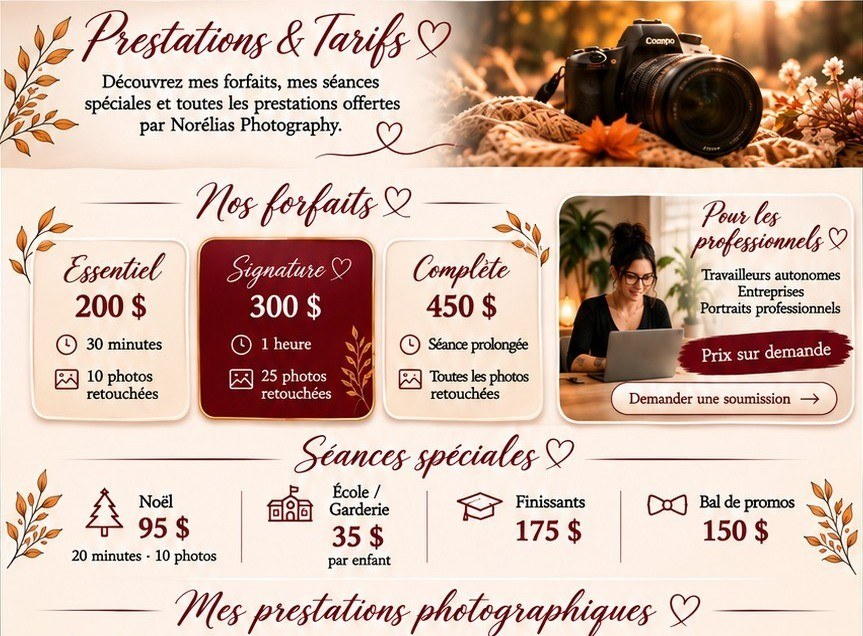
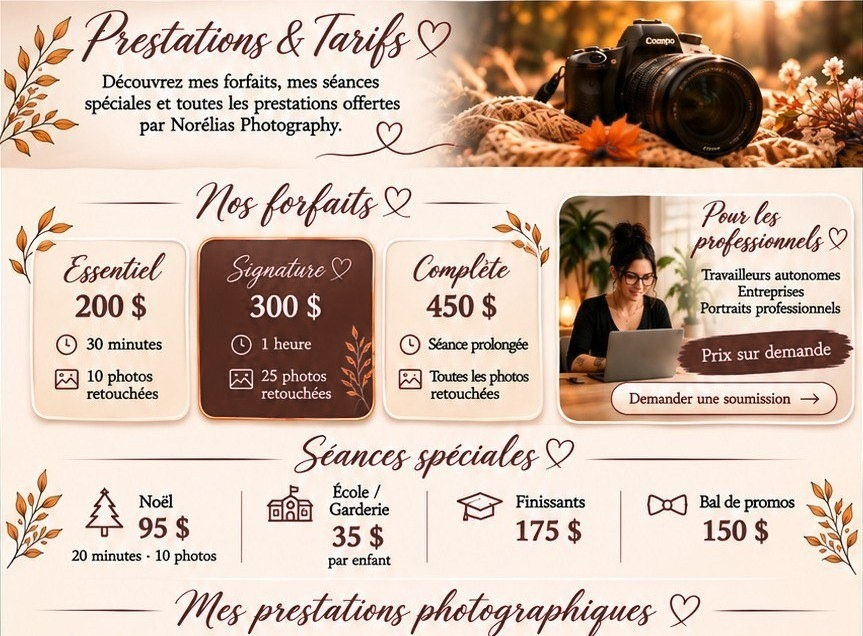
Cellulaire : image Prestations repeinte, carte Signature, boutons cartes-cadeaux en brun (non publié)
Claude-Session: https://claude.ai/code/session_01Rh5XKVHsHEJX8tgAbBS3Nk

diff --git a/prestations/index.html b/prestations/index.html
@@ -18,11 +18,15 @@
 <meta property="og:site_name" content="Norélias Photography">
 <meta name="theme-color" content="#4e3128">
 <link rel="icon" href="../favicon.svg" type="image/svg+xml">
-<link rel="stylesheet" href="../prestations-reproduction.css?v=20261124v">
+<link rel="stylesheet" href="../prestations-reproduction.css?v=20261124z2">
 <script>(function(){function z(){document.documentElement.style.setProperty('--z',(innerWidth<=760?1:Math.max(1,Math.min(1.25,innerWidth*0.62/1024))))}z();addEventListener('resize',z)})()</script>
 <link rel="stylesheet" href="../entete.css?v=20261124v">
 <style>
 .mob-img{container-type:inline-size}
+.mob-sig{position:absolute;left:22.8%;top:37%;width:20.8%;height:29.4%;border-radius:8% / 6%;background:linear-gradient(160deg,#f3d9c6,#e6bfa6);border:.45cqw solid #b98a5e;box-sizing:border-box;box-shadow:0 .5cqw 1.6cqw rgba(78,49,40,.22);color:#4e3128;text-align:center;font-family:'Times New Roman',Times,serif;pointer-events:none;display:flex;flex-direction:column;align-items:center;justify-content:center}
+.mob-sig .ms-t{font-family:Allura,'Brush Script MT',cursive;font-size:4.3cqw;line-height:1}.mob-sig .ms-t i{font-style:normal;font-family:Arial,sans-serif;font-size:2.6cqw;color:#a8685e}
+.mob-sig .ms-p{font-size:4.9cqw;font-weight:bold;margin:.8cqw 0 1.6cqw;line-height:1}
+.mob-sig .ms-l{display:flex;align-items:center;gap:1cqw;font-size:2.1cqw;line-height:1.15;font-weight:600;margin-top:1.2cqw;text-align:left}.mob-sig .ms-l svg{width:3cqw;height:3cqw;flex:none}
 .mob-ecole{position:absolute;left:37.4%;top:81.72%;width:8.6%;height:8.24%;background:#f7ede4;text-align:center;font-family:'Times New Roman',Times,serif;pointer-events:none;display:flex;flex-direction:column;justify-content:center;align-items:center}
 .mob-ecole b{font-size:2.9cqw;line-height:1;color:#4e3128;font-weight:bold}
 .mob-ecole span{font-size:1.75cqw;line-height:1.2;margin-top:.5cqw;color:#4e3128}
@@ -49,7 +53,8 @@
   <a class="panier-lien" href="../panier/" aria-label="Mon panier"><svg viewBox="0 0 24 24" fill="none" stroke="currentColor" stroke-width="1.7" stroke-linecap="round" stroke-linejoin="round"><path d="M3 4h2l2.4 11h10.2L20 8H6.5"/><circle cx="9" cy="19" r="1.4"/><circle cx="17" cy="19" r="1.4"/></svg><span class="panier-n" hidden>0</span></a>
  </header>
  
- <div class="mob-img"><img src="../images/prestations-cellulaire-haut.jpg?v=1" alt="Prestations et tarifs Norélias Photography : forfaits Essentiel 200 $, Signature 300 $, Complète 450 $, séances spéciales Noël 95 $, école et garderie 35 $ par enfant, finissants 175 $, bal de promos 150 $, grossesse, accouchement, nouveau-né, famille, couple, fêtes, portraits professionnels">
+ <div class="mob-img"><img src="../images/prestations-cellulaire-haut.jpg?v=2" alt="Prestations et tarifs Norélias Photography : forfaits Essentiel 200 $, Signature 300 $, Complète 450 $, séances spéciales Noël 95 $, école et garderie 35 $ par enfant, finissants 175 $, bal de promos 150 $, grossesse, accouchement, nouveau-né, famille, couple, fêtes, portraits professionnels">
+  <div class="mob-sig"><span class="ms-t">Signature <i>&#9825;</i></span><span class="ms-p">300 $</span><span class="ms-l"><svg viewBox="0 0 32 32" fill="none" stroke="currentColor" stroke-width="2.2" stroke-linecap="round"><circle cx="16" cy="16" r="12"/><path d="M16 9v7l5 3"/></svg>1 heure</span><span class="ms-l"><svg viewBox="0 0 32 32" fill="none" stroke="currentColor" stroke-width="2.2" stroke-linecap="round" stroke-linejoin="round"><rect x="4" y="5" width="24" height="22" rx="3"/><circle cx="12" cy="13" r="2.5"/><path d="M5 25l8-8 5 5 4-4 6 6"/></svg>25 photos<br>retouchées</span></div>
   <div class="mob-ecole"><b>300 $</b><span>par séance</span></div>
   <div class="mob-pro" aria-hidden="false"><div class="mp-ph" role="img" aria-label="Sabrina à son bureau"></div><div class="mp-t"><span class="mp-ti">Pour les professionnels <i>&#9825;</i></span><span class="mp-l">Travailleurs autonomes<br>Entreprises<br>Portraits professionnels</span><span class="mp-prix">Prix sur demande</span></div><span class="mp-bt">Demander une soumission <b>&rarr;</b></span></div>
   <a class="mob-h" href="mailto:bonjour@norelias.ca?subject=Demande%20de%20soumission" aria-label="Demander une soumission" style="left:70.22%;top:59.91%;width:27.11%;height:5.83%"></a>

diff --git a/legacy.css b/legacy.css
@@ -27,11 +27,11 @@
 .legacy .opage-largeur{max-width:calc(728 * var(--u));margin:0 auto}
 .legacy main{background:var(--creme)}
 .legacy .entete{box-shadow:0 2px 14px rgba(58,42,36,.08)}
-.legacy .bouton{display:inline-flex;align-items:center;justify-content:center;gap:calc(12 * var(--u));background:linear-gradient(180deg,#e1b2a4 0%,#cb9483 100%);color:#4e3128;font-family:'Nunito',sans-serif;font-weight:600;font-size:calc(14.5 * var(--u));text-decoration:none;padding:0 calc(22 * var(--u));height:calc(32 * var(--u));border-radius:calc(5 * var(--u));border:0;box-shadow:0 calc(2 * var(--u)) calc(6 * var(--u)) rgba(150,90,75,.3);cursor:pointer;transition:filter .2s}
+.legacy .bouton{display:inline-flex;align-items:center;justify-content:center;gap:calc(12 * var(--u));background:#4e3128;color:#f7ede4;font-family:'Nunito',sans-serif;font-weight:600;font-size:calc(14.5 * var(--u));text-decoration:none;padding:0 calc(22 * var(--u));height:calc(32 * var(--u));border-radius:calc(5 * var(--u));border:0;box-shadow:0 calc(2 * var(--u)) calc(6 * var(--u)) rgba(150,90,75,.3);cursor:pointer;transition:filter .2s}
 .legacy .bouton:hover{filter:brightness(1.06)}
 .legacy .bouton .fleche{font-size:1.25em;line-height:1;margin-top:calc(-2 * var(--u))}
 .legacy .bouton.blanc{background:#fff;color:var(--noel);border-radius:999px;box-shadow:none;height:calc(37 * var(--u));padding:0 calc(16 * var(--u));font-size:calc(12.5 * var(--u));font-weight:600}
-.legacy .bouton.contour{background:transparent;border:1.5px solid #cb9483;box-shadow:none}
+.legacy .bouton.contour{background:transparent;border:1.5px solid #4e3128;box-shadow:none}
 .legacy .bouton[disabled]{opacity:.45;cursor:not-allowed}
 .legacy .entete{position:sticky;top:0;z-index:50;background:#f7ede4}
 .legacy .entete .barre{max-width:calc(728 * var(--u));margin:0 auto;height:calc(80 * var(--u));display:flex;align-items:center;padding:0 calc(20 * var(--u));gap:calc(10 * var(--u))}
@@ -424,7 +424,7 @@
 .legacy .etapes li .num{font-size:13px}}
 .legacy .barre-reserver{display:none}
 @media (max-width:1024px){.legacy body.avec-barre{padding-bottom:64px}
-.legacy .barre-reserver{display:flex;align-items:center;justify-content:center;position:fixed;left:0;right:0;bottom:0;z-index:40;height:56px;background:linear-gradient(180deg,#e1b2a4 0%,#cb9483 100%);color:#4e3128;font-family:'Nunito',sans-serif;font-weight:700;font-size:16px;text-decoration:none;box-shadow:0 -3px 12px rgba(58,42,36,.28);padding-bottom:env(safe-area-inset-bottom)}}
+.legacy .barre-reserver{display:flex;align-items:center;justify-content:center;position:fixed;left:0;right:0;bottom:0;z-index:40;height:56px;background:#4e3128;color:#f7ede4;font-family:'Nunito',sans-serif;font-weight:700;font-size:16px;text-decoration:none;box-shadow:0 -3px 12px rgba(58,42,36,.28);padding-bottom:env(safe-area-inset-bottom)}}
 .legacy .temoignages{background:#f7ede4;padding:calc(30 * var(--u)) 0 calc(34 * var(--u))}
 .legacy .temoignages .interieur{max-width:calc(728 * var(--u));margin:0 auto;padding:0 calc(20 * var(--u))}
 .legacy .carrousel{position:relative;margin-top:calc(18 * var(--u));padding:0 calc(22 * var(--u))}
@@ -477,7 +477,7 @@
 .legacy .mt-cadeau:hover{transform:translateY(-3px);box-shadow:0 calc(6 * var(--u)) calc(14 * var(--u)) rgba(150,90,75,.22)}
 .legacy .mt-cadeau .prix{font-family:'Great Vibes',cursive;font-size:calc(44 * var(--u));line-height:1;color:#4e3128}
 .legacy .mt-cadeau .desc{font-size:calc(13 * var(--u));color:#4e3128}
-.legacy .mt-cadeau .choisir{margin-top:calc(8 * var(--u));display:inline-block;background:linear-gradient(180deg,#e1b2a4 0%,#cb9483 100%);color:#4e3128;font-weight:700;font-size:calc(12.5 * var(--u));padding:calc(7 * var(--u)) calc(14 * var(--u));border-radius:calc(5 * var(--u))}
+.legacy .mt-cadeau .choisir{margin-top:calc(8 * var(--u));display:inline-block;background:#4e3128;color:#f7ede4;font-weight:700;font-size:calc(12.5 * var(--u));padding:calc(7 * var(--u)) calc(14 * var(--u));border-radius:calc(5 * var(--u))}
 .legacy .autre-montant{text-align:center;margin-top:calc(16 * var(--u));font-size:calc(13.5 * var(--u));color:#4e3128}
 .legacy .autre-montant a{color:#4e3128;font-weight:700}
 .legacy .etapes-cadeau{display:grid;grid-template-columns:repeat(3,1fr);gap:calc(14 * var(--u));max-width:calc(600 * var(--u));margin:calc(22 * var(--u)) auto 0}

diff --git a/style.css b/style.css
@@ -36,11 +36,11 @@ main{background:var(--creme)}
 .entete{box-shadow:0 2px 14px rgba(58,42,36,.08)}
 
 /* Bouton rosé de la maquette */
-.bouton{display:inline-flex;align-items:center;justify-content:center;gap:calc(12 * var(--u));background:linear-gradient(180deg,#e1b2a4 0%,#cb9483 100%);color:#4e3128;font-family:'Nunito',sans-serif;font-weight:600;font-size:calc(14.5 * var(--u));text-decoration:none;padding:0 calc(22 * var(--u));height:calc(32 * var(--u));border-radius:calc(5 * var(--u));border:0;box-shadow:0 calc(2 * var(--u)) calc(6 * var(--u)) rgba(150,90,75,.3);cursor:pointer;transition:filter .2s}
+.bouton{display:inline-flex;align-items:center;justify-content:center;gap:calc(12 * var(--u));background:#4e3128;color:#f7ede4;font-family:'Nunito',sans-serif;font-weight:600;font-size:calc(14.5 * var(--u));text-decoration:none;padding:0 calc(22 * var(--u));height:calc(32 * var(--u));border-radius:calc(5 * var(--u));border:0;box-shadow:0 calc(2 * var(--u)) calc(6 * var(--u)) rgba(150,90,75,.3);cursor:pointer;transition:filter .2s}
 .bouton:hover{filter:brightness(1.06)}
 .bouton .fleche{font-size:1.25em;line-height:1;margin-top:calc(-2 * var(--u))}
 .bouton.blanc{background:#fff;color:var(--noel);border-radius:999px;box-shadow:none;height:calc(37 * var(--u));padding:0 calc(16 * var(--u));font-size:calc(12.5 * var(--u));font-weight:600}
-.bouton.contour{background:transparent;border:1.5px solid #cb9483;box-shadow:none}
+.bouton.contour{background:transparent;border:1.5px solid #4e3128;box-shadow:none}
 .bouton[disabled]{opacity:.45;cursor:not-allowed}
 
 /* En-tête */
@@ -499,7 +499,7 @@ main>.page:last-child{flex:1 0 auto}
 .barre-reserver{display:none}
 @media (max-width:1024px){
   body.avec-barre{padding-bottom:64px}
-  .barre-reserver{display:flex;align-items:center;justify-content:center;position:fixed;left:0;right:0;bottom:0;z-index:40;height:56px;background:linear-gradient(180deg,#e1b2a4 0%,#cb9483 100%);color:#4e3128;font-family:'Nunito',sans-serif;font-weight:700;font-size:16px;text-decoration:none;box-shadow:0 -3px 12px rgba(58,42,36,.28);padding-bottom:env(safe-area-inset-bottom)}
+  .barre-reserver{display:flex;align-items:center;justify-content:center;position:fixed;left:0;right:0;bottom:0;z-index:40;height:56px;background:#4e3128;color:#f7ede4;font-family:'Nunito',sans-serif;font-weight:700;font-size:16px;text-decoration:none;box-shadow:0 -3px 12px rgba(58,42,36,.28);padding-bottom:env(safe-area-inset-bottom)}
 }
 
 /* ---- Témoignages ---- */
@@ -540,7 +540,7 @@ main>.page:last-child{flex:1 0 auto}
 .mt-cadeau:hover{transform:translateY(-3px);box-shadow:0 calc(6 * var(--u)) calc(14 * var(--u)) rgba(150,90,75,.22)}
 .mt-cadeau .prix{font-family:'Great Vibes',cursive;font-size:calc(44 * var(--u));line-height:1;color:#4e3128}
 .mt-cadeau .desc{font-size:calc(13 * var(--u));color:#4e3128}
-.mt-cadeau .choisir{margin-top:calc(8 * var(--u));display:inline-block;background:linear-gradient(180deg,#e1b2a4 0%,#cb9483 100%);color:#4e3128;font-weight:700;font-size:calc(12.5 * var(--u));padding:calc(7 * var(--u)) calc(14 * var(--u));border-radius:calc(5 * var(--u))}
+.mt-cadeau .choisir{margin-top:calc(8 * var(--u));display:inline-block;background:#4e3128;color:#f7ede4;font-weight:700;font-size:calc(12.5 * var(--u));padding:calc(7 * var(--u)) calc(14 * var(--u));border-radius:calc(5 * var(--u))}
 .autre-montant{text-align:center;margin-top:calc(16 * var(--u));font-size:calc(13.5 * var(--u));color:#4e3128}
 .autre-montant a{color:#4e3128;font-weight:700}
 .etapes-cadeau{display:grid;grid-template-columns:repeat(3,1fr);gap:calc(14 * var(--u));max-width:calc(600 * var(--u));margin:calc(22 * var(--u)) auto 0}

diff --git a/style.src.css b/style.src.css
@@ -28,11 +28,11 @@ main{background:var(--creme)}
 .entete{box-shadow:0 2px 14px rgba(58,42,36,.08)}
 
 /* Bouton rosé de la maquette */
-.bouton{display:inline-flex;align-items:center;justify-content:center;gap:12u;background:linear-gradient(180deg,#e1b2a4 0%,#cb9483 100%);color:#4e3128;font-family:'Nunito',sans-serif;font-weight:600;font-size:14.5u;text-decoration:none;padding:0 22u;height:32u;border-radius:5u;border:0;box-shadow:0 2u 6u rgba(150,90,75,.3);cursor:pointer;transition:filter .2s}
+.bouton{display:inline-flex;align-items:center;justify-content:center;gap:12u;background:#4e3128;color:#f7ede4;font-family:'Nunito',sans-serif;font-weight:600;font-size:14.5u;text-decoration:none;padding:0 22u;height:32u;border-radius:5u;border:0;box-shadow:0 2u 6u rgba(150,90,75,.3);cursor:pointer;transition:filter .2s}
 .bouton:hover{filter:brightness(1.06)}
 .bouton .fleche{font-size:1.25em;line-height:1;margin-top:-2u}
 .bouton.blanc{background:#fff;color:var(--noel);border-radius:999px;box-shadow:none;height:37u;padding:0 16u;font-size:12.5u;font-weight:600}
-.bouton.contour{background:transparent;border:1.5px solid #cb9483;box-shadow:none}
+.bouton.contour{background:transparent;border:1.5px solid #4e3128;box-shadow:none}
 .bouton[disabled]{opacity:.45;cursor:not-allowed}
 
 /* En-tête */
@@ -490,7 +490,7 @@ main>.page:last-child{flex:1 0 auto}
 .barre-reserver{display:none}
 @media (max-width:1024px){
   body.avec-barre{padding-bottom:64px}
-  .barre-reserver{display:flex;align-items:center;justify-content:center;position:fixed;left:0;right:0;bottom:0;z-index:40;height:56px;background:linear-gradient(180deg,#e1b2a4 0%,#cb9483 100%);color:#4e3128;font-family:'Nunito',sans-serif;font-weight:700;font-size:16px;text-decoration:none;box-shadow:0 -3px 12px rgba(58,42,36,.28);padding-bottom:env(safe-area-inset-bottom)}
+  .barre-reserver{display:flex;align-items:center;justify-content:center;position:fixed;left:0;right:0;bottom:0;z-index:40;height:56px;background:#4e3128;color:#f7ede4;font-family:'Nunito',sans-serif;font-weight:700;font-size:16px;text-decoration:none;box-shadow:0 -3px 12px rgba(58,42,36,.28);padding-bottom:env(safe-area-inset-bottom)}
 }
 
 /* ---- Témoignages ---- */
@@ -531,7 +531,7 @@ main>.page:last-child{flex:1 0 auto}
 .mt-cadeau:hover{transform:translateY(-3px);box-shadow:0 6u 14u rgba(150,90,75,.22)}
 .mt-cadeau .prix{font-family:'Great Vibes',cursive;font-size:44u;line-height:1;color:#4e3128}
 .mt-cadeau .desc{font-size:13u;color:#4e3128}
-.mt-cadeau .choisir{margin-top:8u;display:inline-block;background:linear-gradient(180deg,#e1b2a4 0%,#cb9483 100%);color:#4e3128;font-weight:700;font-size:12.5u;padding:7u 14u;border-radius:5u}
+.mt-cadeau .choisir{margin-top:8u;display:inline-block;background:#4e3128;color:#f7ede4;font-weight:700;font-size:12.5u;padding:7u 14u;border-radius:5u}
 .autre-montant{text-align:center;margin-top:16u;font-size:13.5u;color:#4e3128}
 .autre-montant a{color:#4e3128;font-weight:700}
 .etapes-cadeau{display:grid;grid-template-columns:repeat(3,1fr);gap:14u;max-width:600u;margin:22u auto 0}

diff --git a/boutique/calendriers/index.html b/boutique/calendriers/index.html
@@ -18,8 +18,8 @@
 <meta property="og:site_name" content="Norélias Photography">
 <meta name="theme-color" content="#4e3128">
 <link rel="icon" href="../../favicon.svg" type="image/svg+xml">
-<link rel="prefetch" href="../../style.css?v=20261124v">
-<link rel="stylesheet" href="../../legacy.css?v=20261124v">
+<link rel="prefetch" href="../../style.css?v=20261124q">
+<link rel="stylesheet" href="../../legacy.css?v=20261124q">
 <link rel="stylesheet" href="../../pages-reproduction.css?v=20261124v">
 <script>(function(){function z(){document.documentElement.style.setProperty('--z',(innerWidth<=760?1:Math.max(1,Math.min(1.25,innerWidth*0.62/1024))))}z();addEventListener('resize',z)})()</script>
 <link rel="stylesheet" href="../../entete.css?v=20261124v">

diff --git a/boutique/isotherme/index.html b/boutique/isotherme/index.html
@@ -18,8 +18,8 @@
 <meta property="og:site_name" content="Norélias Photography">
 <meta name="theme-color" content="#4e3128">
 <link rel="icon" href="../../favicon.svg" type="image/svg+xml">
-<link rel="prefetch" href="../../style.css?v=20261124v">
-<link rel="stylesheet" href="../../legacy.css?v=20261124v">
+<link rel="prefetch" href="../../style.css?v=20261124q">
+<link rel="stylesheet" href="../../legacy.css?v=20261124q">
 <link rel="stylesheet" href="../../pages-reproduction.css?v=20261124v">
 <script>(function(){function z(){document.documentElement.style.setProperty('--z',(innerWidth<=760?1:Math.max(1,Math.min(1.25,innerWidth*0.62/1024))))}z();addEventListener('resize',z)})()</script>
 <link rel="stylesheet" href="../../entete.css?v=20261124v">

diff --git a/boutique/ornement/index.html b/boutique/ornement/index.html
@@ -18,8 +18,8 @@
 <meta property="og:site_name" content="Norélias Photography">
 <meta name="theme-color" content="#4e3128">
 <link rel="icon" href="../../favicon.svg" type="image/svg+xml">
-<link rel="prefetch" href="../../style.css?v=20261124v">
-<link rel="stylesheet" href="../../legacy.css?v=20261124v">
+<link rel="prefetch" href="../../style.css?v=20261124q">
+<link rel="stylesheet" href="../../legacy.css?v=20261124q">
 <link rel="stylesheet" href="../../pages-reproduction.css?v=20261124v">
 <script>(function(){function z(){document.documentElement.style.setProperty('--z',(innerWidth<=760?1:Math.max(1,Math.min(1.25,innerWidth*0.62/1024))))}z();addEventListener('resize',z)})()</script>
 <link rel="stylesheet" href="../../entete.css?v=20261124v">

diff --git a/boutique/packs/index.html b/boutique/packs/index.html
@@ -18,8 +18,8 @@
 <meta property="og:site_name" content="Norélias Photography">
 <meta name="theme-color" content="#4e3128">
 <link rel="icon" href="../../favicon.svg" type="image/svg+xml">
-<link rel="prefetch" href="../../style.css?v=20261124v">
-<link rel="stylesheet" href="../../legacy.css?v=20261124v">
+<link rel="prefetch" href="../../style.css?v=20261124q">
+<link rel="stylesheet" href="../../legacy.css?v=20261124q">
 <link rel="stylesheet" href="../../pages-reproduction.css?v=20261124v">
 <script>(function(){function z(){document.documentElement.style.setProperty('--z',(innerWidth<=760?1:Math.max(1,Math.min(1.25,innerWidth*0.62/1024))))}z();addEventListener('resize',z)})()</script>
 <link rel="stylesheet" href="../../entete.css?v=20261124v">

diff --git a/boutique/portecles/index.html b/boutique/portecles/index.html
@@ -18,8 +18,8 @@
 <meta property="og:site_name" content="Norélias Photography">
 <meta name="theme-color" content="#4e3128">
 <link rel="icon" href="../../favicon.svg" type="image/svg+xml">
-<link rel="prefetch" href="../../style.css?v=20261124v">
-<link rel="stylesheet" href="../../legacy.css?v=20261124v">
+<link rel="prefetch" href="../../style.css?v=20261124q">
+<link rel="stylesheet" href="../../legacy.css?v=20261124q">
 <link rel="stylesheet" href="../../pages-reproduction.css?v=20261124v">
 <script>(function(){function z(){document.documentElement.style.setProperty('--z',(innerWidth<=760?1:Math.max(1,Math.min(1.25,innerWidth*0.62/1024))))}z();addEventListener('resize',z)})()</script>
 <link rel="stylesheet" href="../../entete.css?v=20261124v">

diff --git a/boutique/tasse/index.html b/boutique/tasse/index.html
@@ -18,8 +18,8 @@
 <meta property="og:site_name" content="Norélias Photography">
 <meta name="theme-color" content="#4e3128">
 <link rel="icon" href="../../favicon.svg" type="image/svg+xml">
-<link rel="prefetch" href="../../style.css?v=20261124v">
-<link rel="stylesheet" href="../../legacy.css?v=20261124v">
+<link rel="prefetch" href="../../style.css?v=20261124q">
+<link rel="stylesheet" href="../../legacy.css?v=20261124q">
 <link rel="stylesheet" href="../../pages-reproduction.css?v=20261124v">
 <script>(function(){function z(){document.documentElement.style.setProperty('--z',(innerWidth<=760?1:Math.max(1,Math.min(1.25,innerWidth*0.62/1024))))}z();addEventListener('resize',z)})()</script>
 <link rel="stylesheet" href="../../entete.css?v=20261124v">

diff --git a/cartes-cadeaux/index.html b/cartes-cadeaux/index.html
@@ -18,8 +18,8 @@
 <meta property="og:site_name" content="Norélias Photography">
 <meta name="theme-color" content="#4e3128">
 <link rel="icon" href="../favicon.svg" type="image/svg+xml">
-<link rel="prefetch" href="../style.css?v=20261124v">
-<link rel="stylesheet" href="../legacy.css?v=20261124v">
+<link rel="prefetch" href="../style.css?v=20261124q">
+<link rel="stylesheet" href="../legacy.css?v=20261124q">
 <link rel="stylesheet" href="../pages-reproduction.css?v=20261124v">
 <script>(function(){function z(){document.documentElement.style.setProperty('--z',(innerWidth<=760?1:Math.max(1,Math.min(1.25,innerWidth*0.62/1024))))}z();addEventListener('resize',z)})()</script>
 <link rel="stylesheet" href="../entete.css?v=20261124v">

diff --git a/confidentialite/index.html b/confidentialite/index.html
@@ -18,8 +18,8 @@
 <meta property="og:site_name" content="Norélias Photography">
 <meta name="theme-color" content="#4e3128">
 <link rel="icon" href="../favicon.svg" type="image/svg+xml">
-<link rel="prefetch" href="../style.css?v=20261124v">
-<link rel="stylesheet" href="../legacy.css?v=20261124v">
+<link rel="prefetch" href="../style.css?v=20261124q">
+<link rel="stylesheet" href="../legacy.css?v=20261124q">
 <link rel="stylesheet" href="../pages-reproduction.css?v=20261124v">
 <script>(function(){function z(){document.documentElement.style.setProperty('--z',(innerWidth<=760?1:Math.max(1,Math.min(1.25,innerWidth*0.62/1024))))}z();addEventListener('resize',z)})()</script>
 <link rel="stylesheet" href="../entete.css?v=20261124v">
